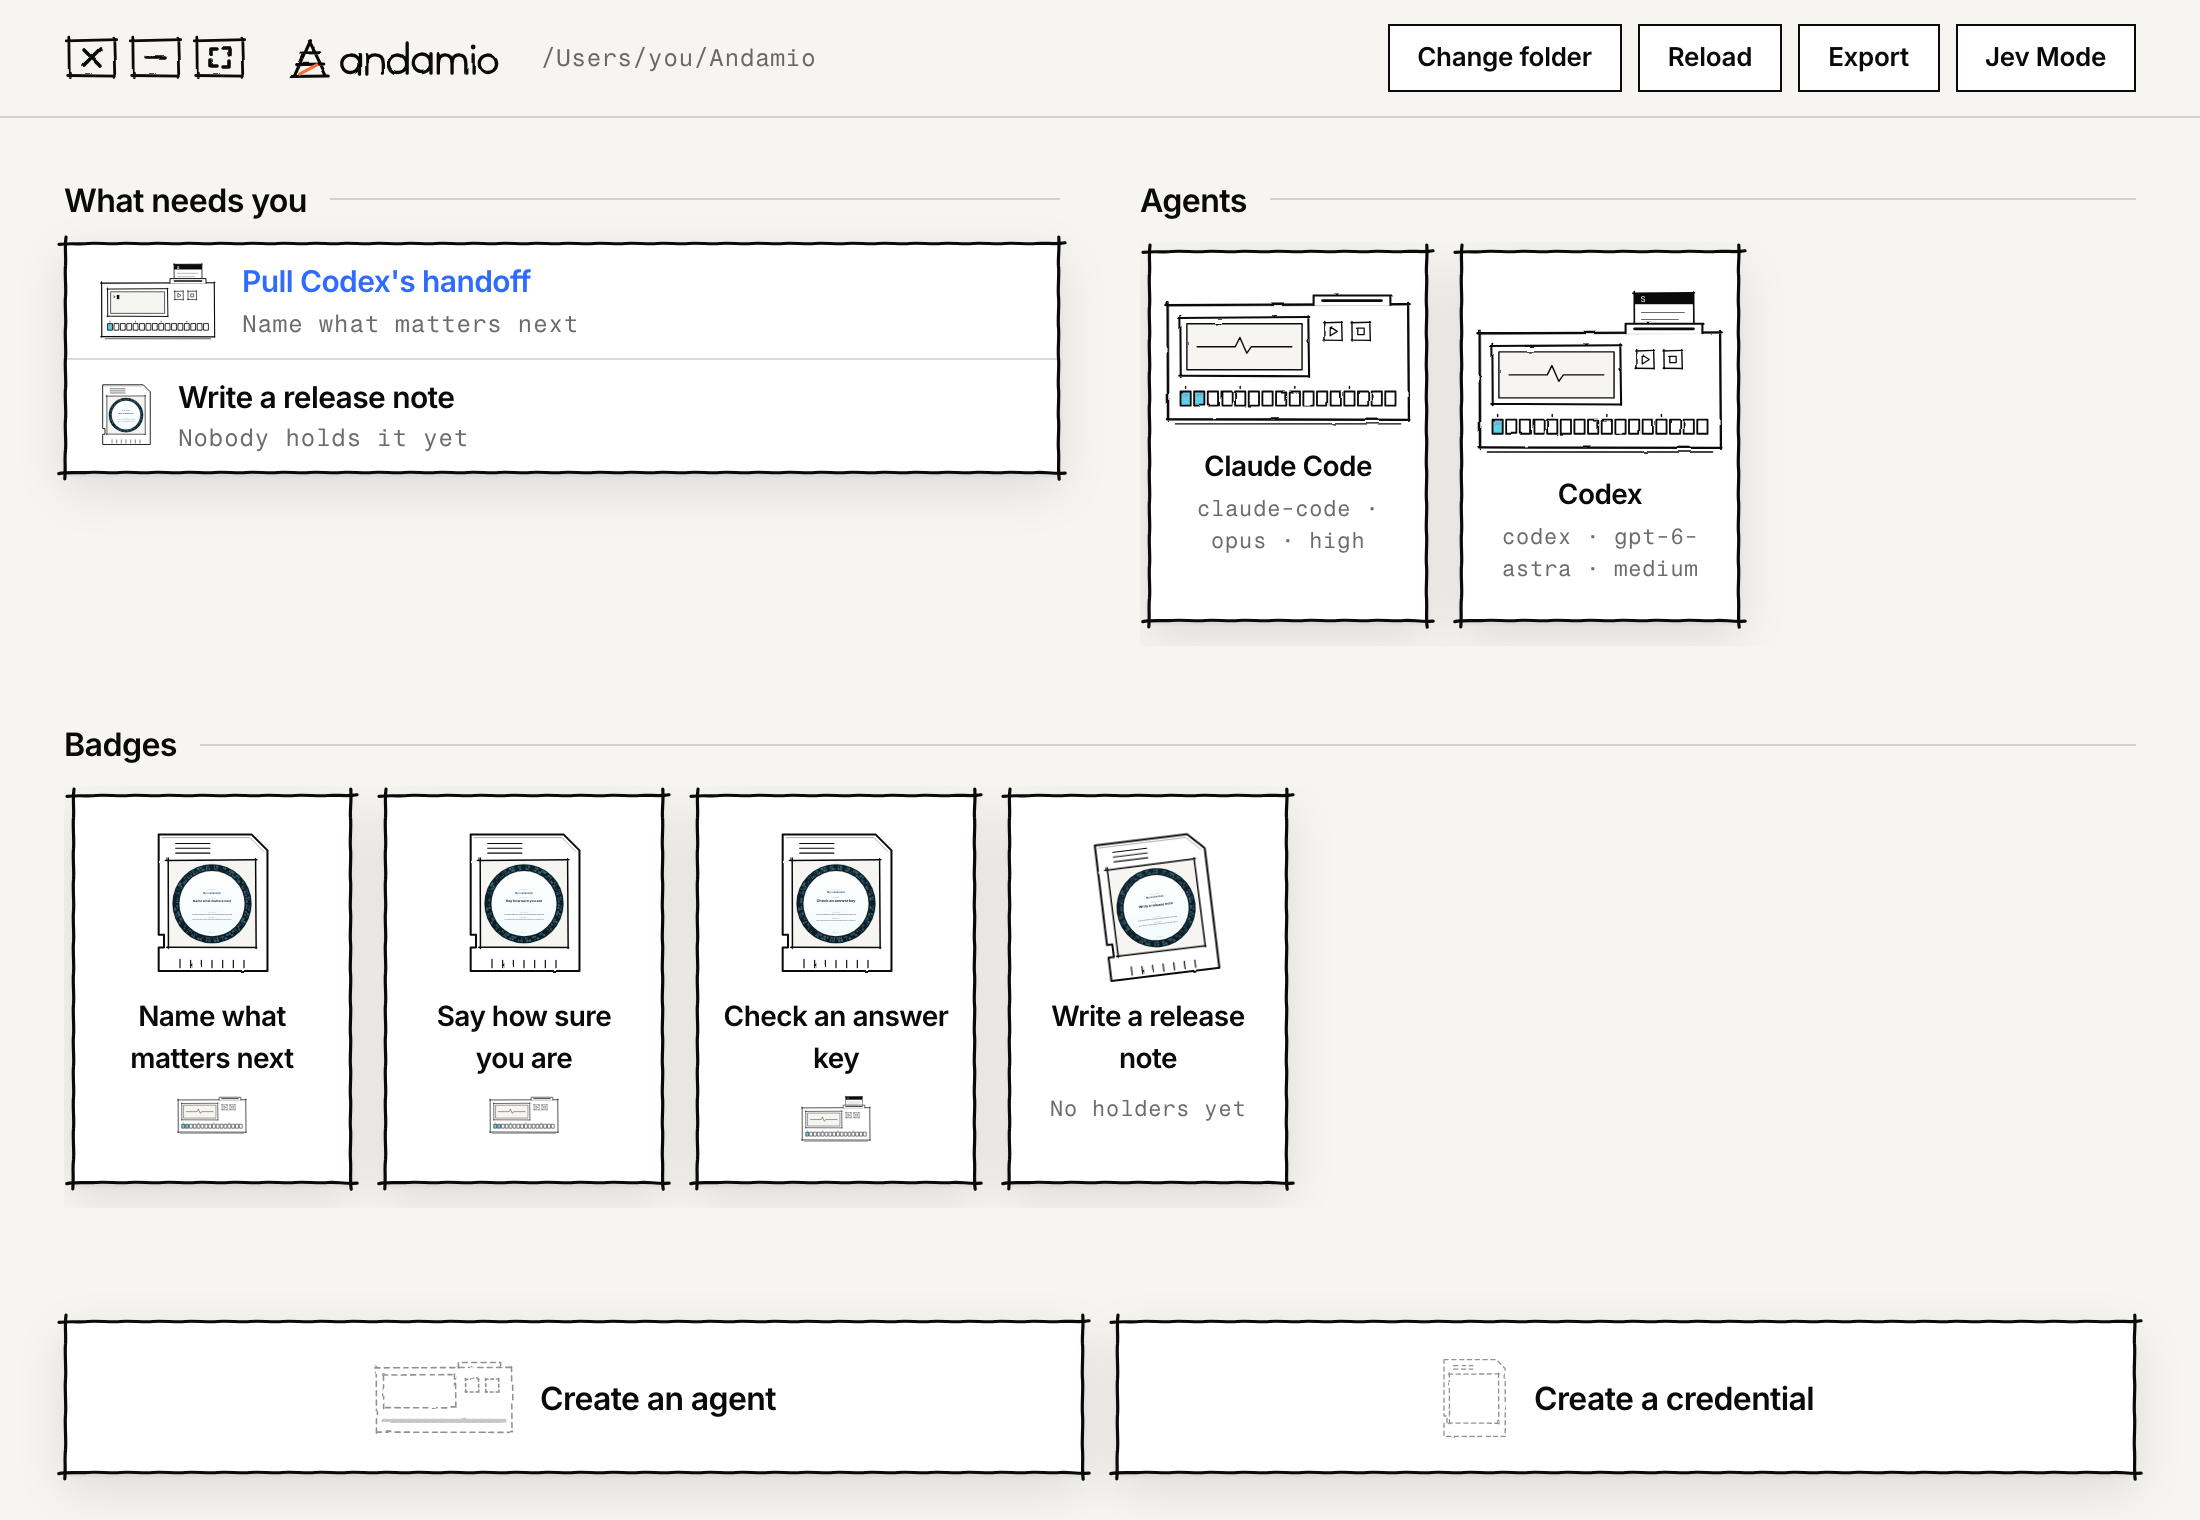
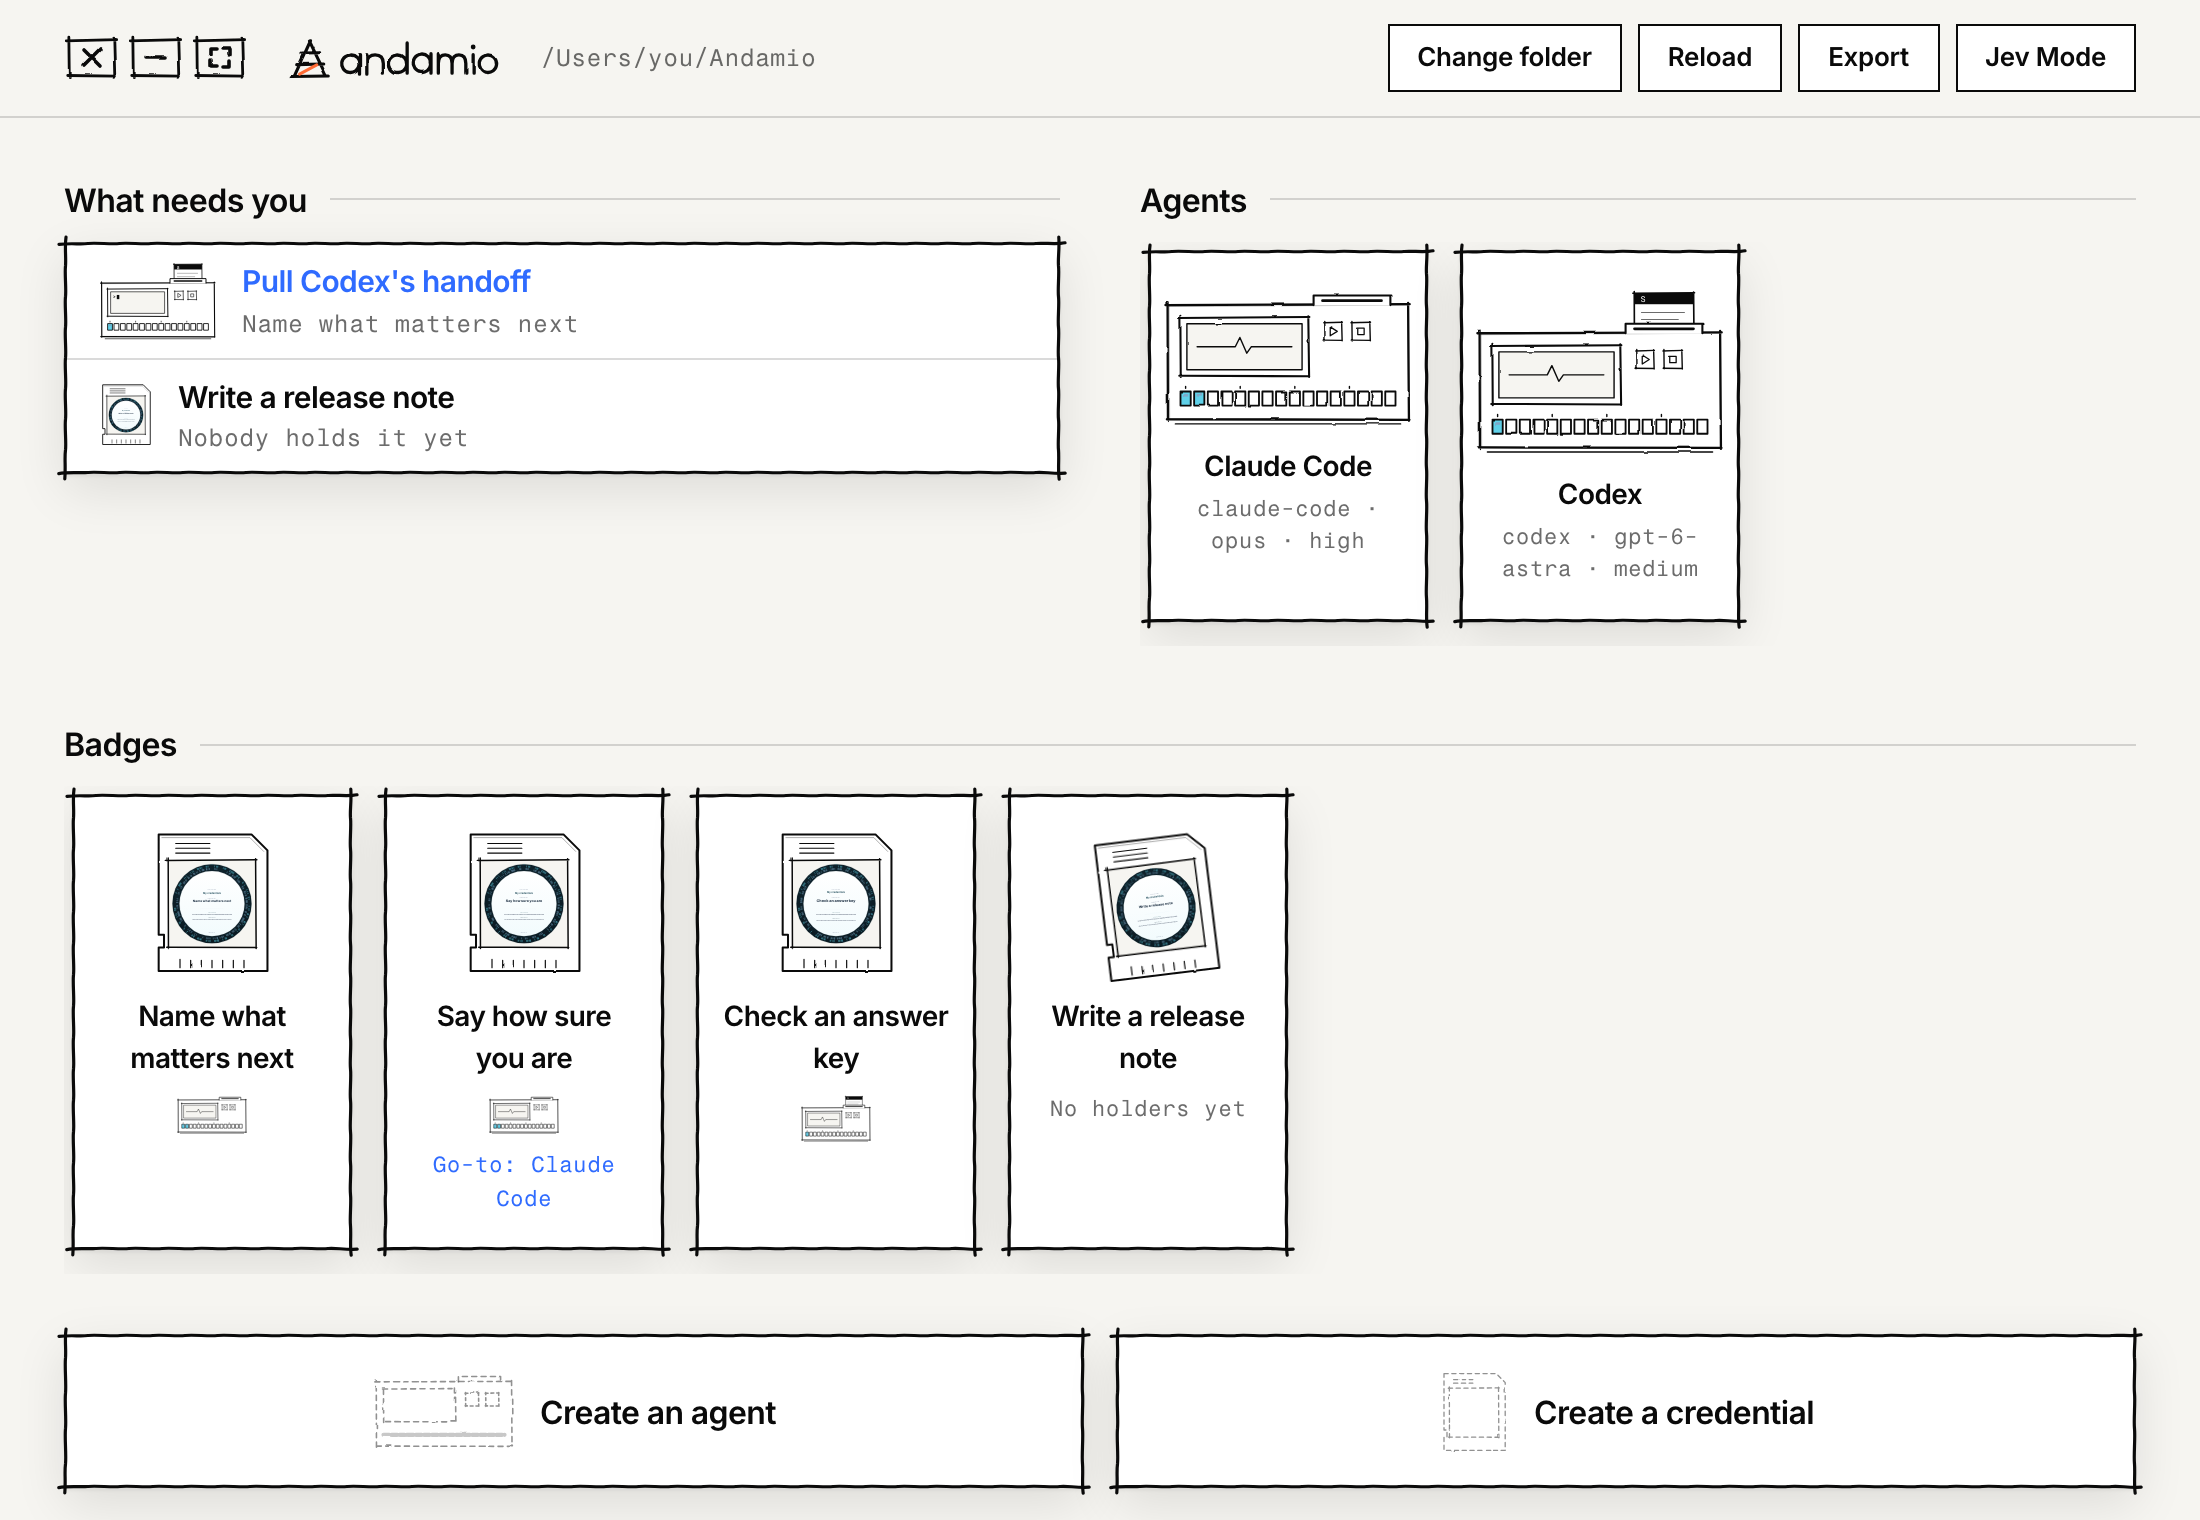
docs(site): explain choosing a go-to, and reshoot the screens it changed
A new How to page covers both places to choose a go-to and what home
shows. The pages that described Met going home on its own, home's badges,
the folder layout and the trash now say what the go-to adds. The sample
folder gains one go-to, and only home, badge-replies, first-test-home and
the two new pictures were shot.

Changed region(s): [[0.0309, 0.8658, 0.9891, 0.9895], [0.0309, 0.7421, 0.5873, 0.8349]]

diff --git a/src/shots/shots.ts b/src/shots/shots.ts
@@ -202,15 +202,20 @@ export const SHOTS: readonly Shot[] = [
     steps: FIRST_TEST_TO_JUDGE,
   },
   {
-    // Met plays a 1400 ms landing before home returns, so the last step waits for a
-    // holder, which only home shows.
+    // After Met the screen waits; making the agent the go-to goes home, so the last step
+    // waits for a holder, which only home shows.
     id: "first-test-home",
     page: "getting-started/first-test",
     route: { view: "deck", deck: "agent", firstTest: true },
     seed: "empty",
     jev: "off",
     expect: { selector: ".holder" },
-    steps: [...FIRST_TEST_TO_JUDGE, { click: { button: "Met" } }, { waitFor: { selector: ".holder" } }],
+    steps: [
+      ...FIRST_TEST_TO_JUDGE,
+      { click: { button: "Met" } },
+      { click: { button: "Make Claude Code, opus, high the go-to" } },
+      { waitFor: { selector: ".holder" } },
+    ],
   },
   {
     // What needs you sits beside Agents, so every shelf shows above the doors pinned to the
@@ -337,6 +342,35 @@ export const SHOTS: readonly Shot[] = [
     jev: "off",
     expect: { text: "Did it meet it" },
     steps: [...RELEASE_TO_REPLY, { click: { button: "Next" } }, { waitFor: { text: "Did it meet it" } }],
+  },
+  {
+    // Nobody holds Write a release note, so the screen after Met offers to make Claude Code
+    // its go-to.
+    id: "go-to-offer",
+    page: "how-to/choose-a-go-to",
+    route: RELEASE_TEST,
+    seed: "full",
+    jev: "off",
+    expect: { text: "Make Claude Code the go-to" },
+    steps: [
+      ...RELEASE_TO_REPLY,
+      { click: { button: "Next" } },
+      { waitFor: { text: "Did it meet it" } },
+      { click: { button: "Met" } },
+      { waitFor: { text: "Make Claude Code the go-to" } },
+    ],
+  },
+  {
+    // Codex holds Check an answer key and nobody has made it the go-to. The holders show
+    // once the matrix is built, so the picture waits for the offer.
+    id: "go-to-badge",
+    page: "how-to/choose-a-go-to",
+    route: { view: "item", item: "badge", credentialKey: ANSWER_KEY },
+    seed: "full",
+    jev: "off",
+    expect: { text: "Make go-to" },
+    steps: [{ waitFor: { text: "Make go-to" } }],
+    clip: { selector: 'section[aria-labelledby="badge-holders"]', pad: 24 },
   },
   {
     id: "badge-replies",
@@ -468,14 +502,14 @@ export const COVERAGE: Record<RouteKind, readonly string[] | typeof NOT_PICTURED
   home: ["home-empty", "home", "home-needs"],
   "deck:credential": ["credential-start", "credential-target"],
   "deck:agent": ["first-test-agent", "first-test-hand", "first-test-judge", "first-test-home", "agent-new"],
-  "deck:test": ["test-hand", "test-reply", "judge", "jev-ask", "jev-cleanup"],
+  "deck:test": ["test-hand", "test-reply", "judge", "go-to-offer", "jev-ask", "jev-cleanup"],
   "deck:edit-credential": ["edit-retest"],
   "deck:edit-agent": ["agent-params"],
   "deck:handoffs": ["handoffs-box"],
   "deck:edit-handoff": ["handoff-edit"],
   "deck:trash": ["trash-badge", "trash-agent"],
   "deck:jev": ["jev-off", "jev-on"],
-  "item:badge": ["badge-replies", "badge-page"],
+  "item:badge": ["badge-replies", "badge-page", "go-to-badge"],
   "item:agent": ["agent-page"],
   // A handoff opens as its own item only once two or more have results; the sample's has none.
   "item:handoff": NOT_PICTURED,

diff --git a/src/shots/seed.ts b/src/shots/seed.ts
@@ -7,8 +7,9 @@
 // Two variants. "empty" is a first run's folder: only the marker file. "full" holds one
 // collection (three presets and one hand-built credential), two agents with different
 // setups, dated results (two takes on one badge for the compare, one with a saved Jev
-// reading), one waiting test for What needs you, and one handoff of the hand-built
-// credential's own that no result has run, for How to's handoff pictures (U7). Values
+// reading), one waiting test for What needs you, one handoff of the hand-built
+// credential's own that no result has run, for How to's handoff pictures (U7), and one
+// go-to mark, Claude Code on the badge with two takes. Values
 // follow src/ui/testFolder.tsx, copied rather than imported, since that file imports
 // @testing-library/react.
 
@@ -18,9 +19,11 @@ import {
   collectionPath,
   credentialPath,
   handoffPath,
+  markPath,
   profilePath,
   serializeAssessment,
   serializeCollection,
+  serializeMark,
   serializeMarker,
   serializeProfile,
 } from "../domain/folder";
@@ -37,6 +40,7 @@ import {
   type ContextReading,
   type Credential,
   type HandoffTemplate,
+  type Mark,
   type TestContext,
 } from "../domain/types";
 import { FAKE_ON, FakeJev } from "../jev/fakeJev";
@@ -72,6 +76,8 @@ export const SAMPLE = {
   },
   /** Badge handoffs by their file stem. Write a release note's is its default, handoff A. */
   handoffs: { releaseNote: "20260928T090000Z" },
+  /** Go-to marks by their file stem: Claude Code on Say how sure you are, after its Met take. */
+  marks: { howSure: "20260926T170000Z" },
 } as const;
 
 /** The sample folder's files by path, and the waiting tests the harness puts in local storage. */
@@ -316,6 +322,16 @@ export async function sampleFolder(variant: SeedVariant): Promise<SampleFolder> 
   for (const a of results) {
     files[assessmentPath(a.profileSlug, a.collectionSlug, a.credentialSlug, a.fileStem)] = serializeAssessment(a);
   }
+
+  // Claude Code is Say how sure you are's go-to, marked on the Met take that earned it.
+  const goTo: Mark = {
+    collectionSlug: SAMPLE.collection,
+    credentialSlug: howSure.slug,
+    id: SAMPLE.marks.howSure,
+    profileSlug: CLAUDE.slug,
+    fileStem: SAMPLE.takes.claudeHowSure,
+  };
+  files[markPath(goTo.collectionSlug, goTo.credentialSlug, goTo.id)] = serializeMark(goTo);
 
   // Codex holds Name what matters next's handoff, waiting on its reply.
   const copiedAt = "2026-09-30T08:15:00.000Z";

diff --git a/site/README.md b/site/README.md
@@ -71,7 +71,7 @@ Screenshots are data in `src/shots/shots.ts`. Each one opens the real app in a d
 4. Use it on its page with `<Shot id="<id>" alt="…" />`.
 
 Things that make a shot misbehave:
-- After a step that waits on a timer, such as the 1400 ms landing after Met, end with a `waitFor`.
+- After a step that waits on a timer, such as the 700 ms the dots run after Copy, end with a `waitFor`.
 - A screen that focuses its heading as it opens undoes a `scroll` step. Wait for something that appears only after the data loads, then scroll.
 - Sample text pasted in a step must not look like a path or a key: the seed tests reject `/Users/`, `~/` and runs of 20 or more letters and digits.
 
